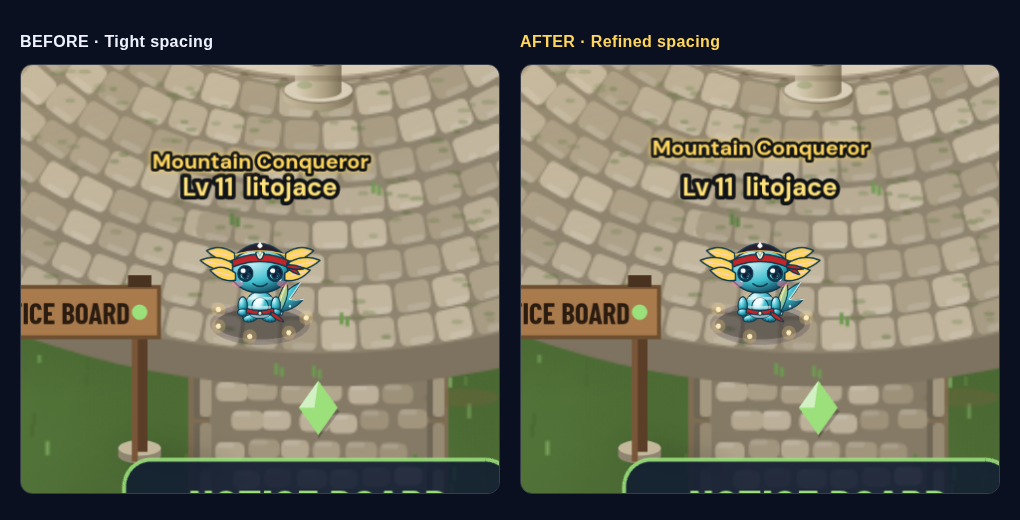
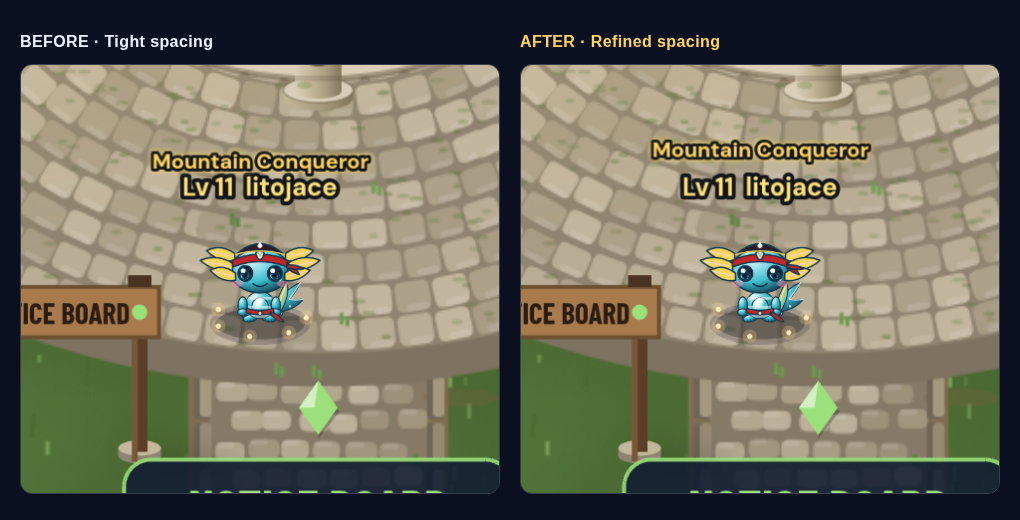
Refine town title spacing

Changed region(s): [[0.6382, 0.2462, 0.851, 0.3385]]

diff --git a/apps/client/src/town.ts b/apps/client/src/town.ts
@@ -95,7 +95,7 @@ interface Body {
 /** Room around title text for its glow, so the blur isn't clipped. */
 const TITLE_PAD = { x: 12, y: 7 };
 /** Clear space between the title lettering and the player name below it. */
-const TITLE_GAP = 3;
+const TITLE_GAP = 2;
 /**
  * Draw a title the way the arena nameplate does (see .player-title in
  * style.css): every title glows in its colour, Master titles pulse slowly,
